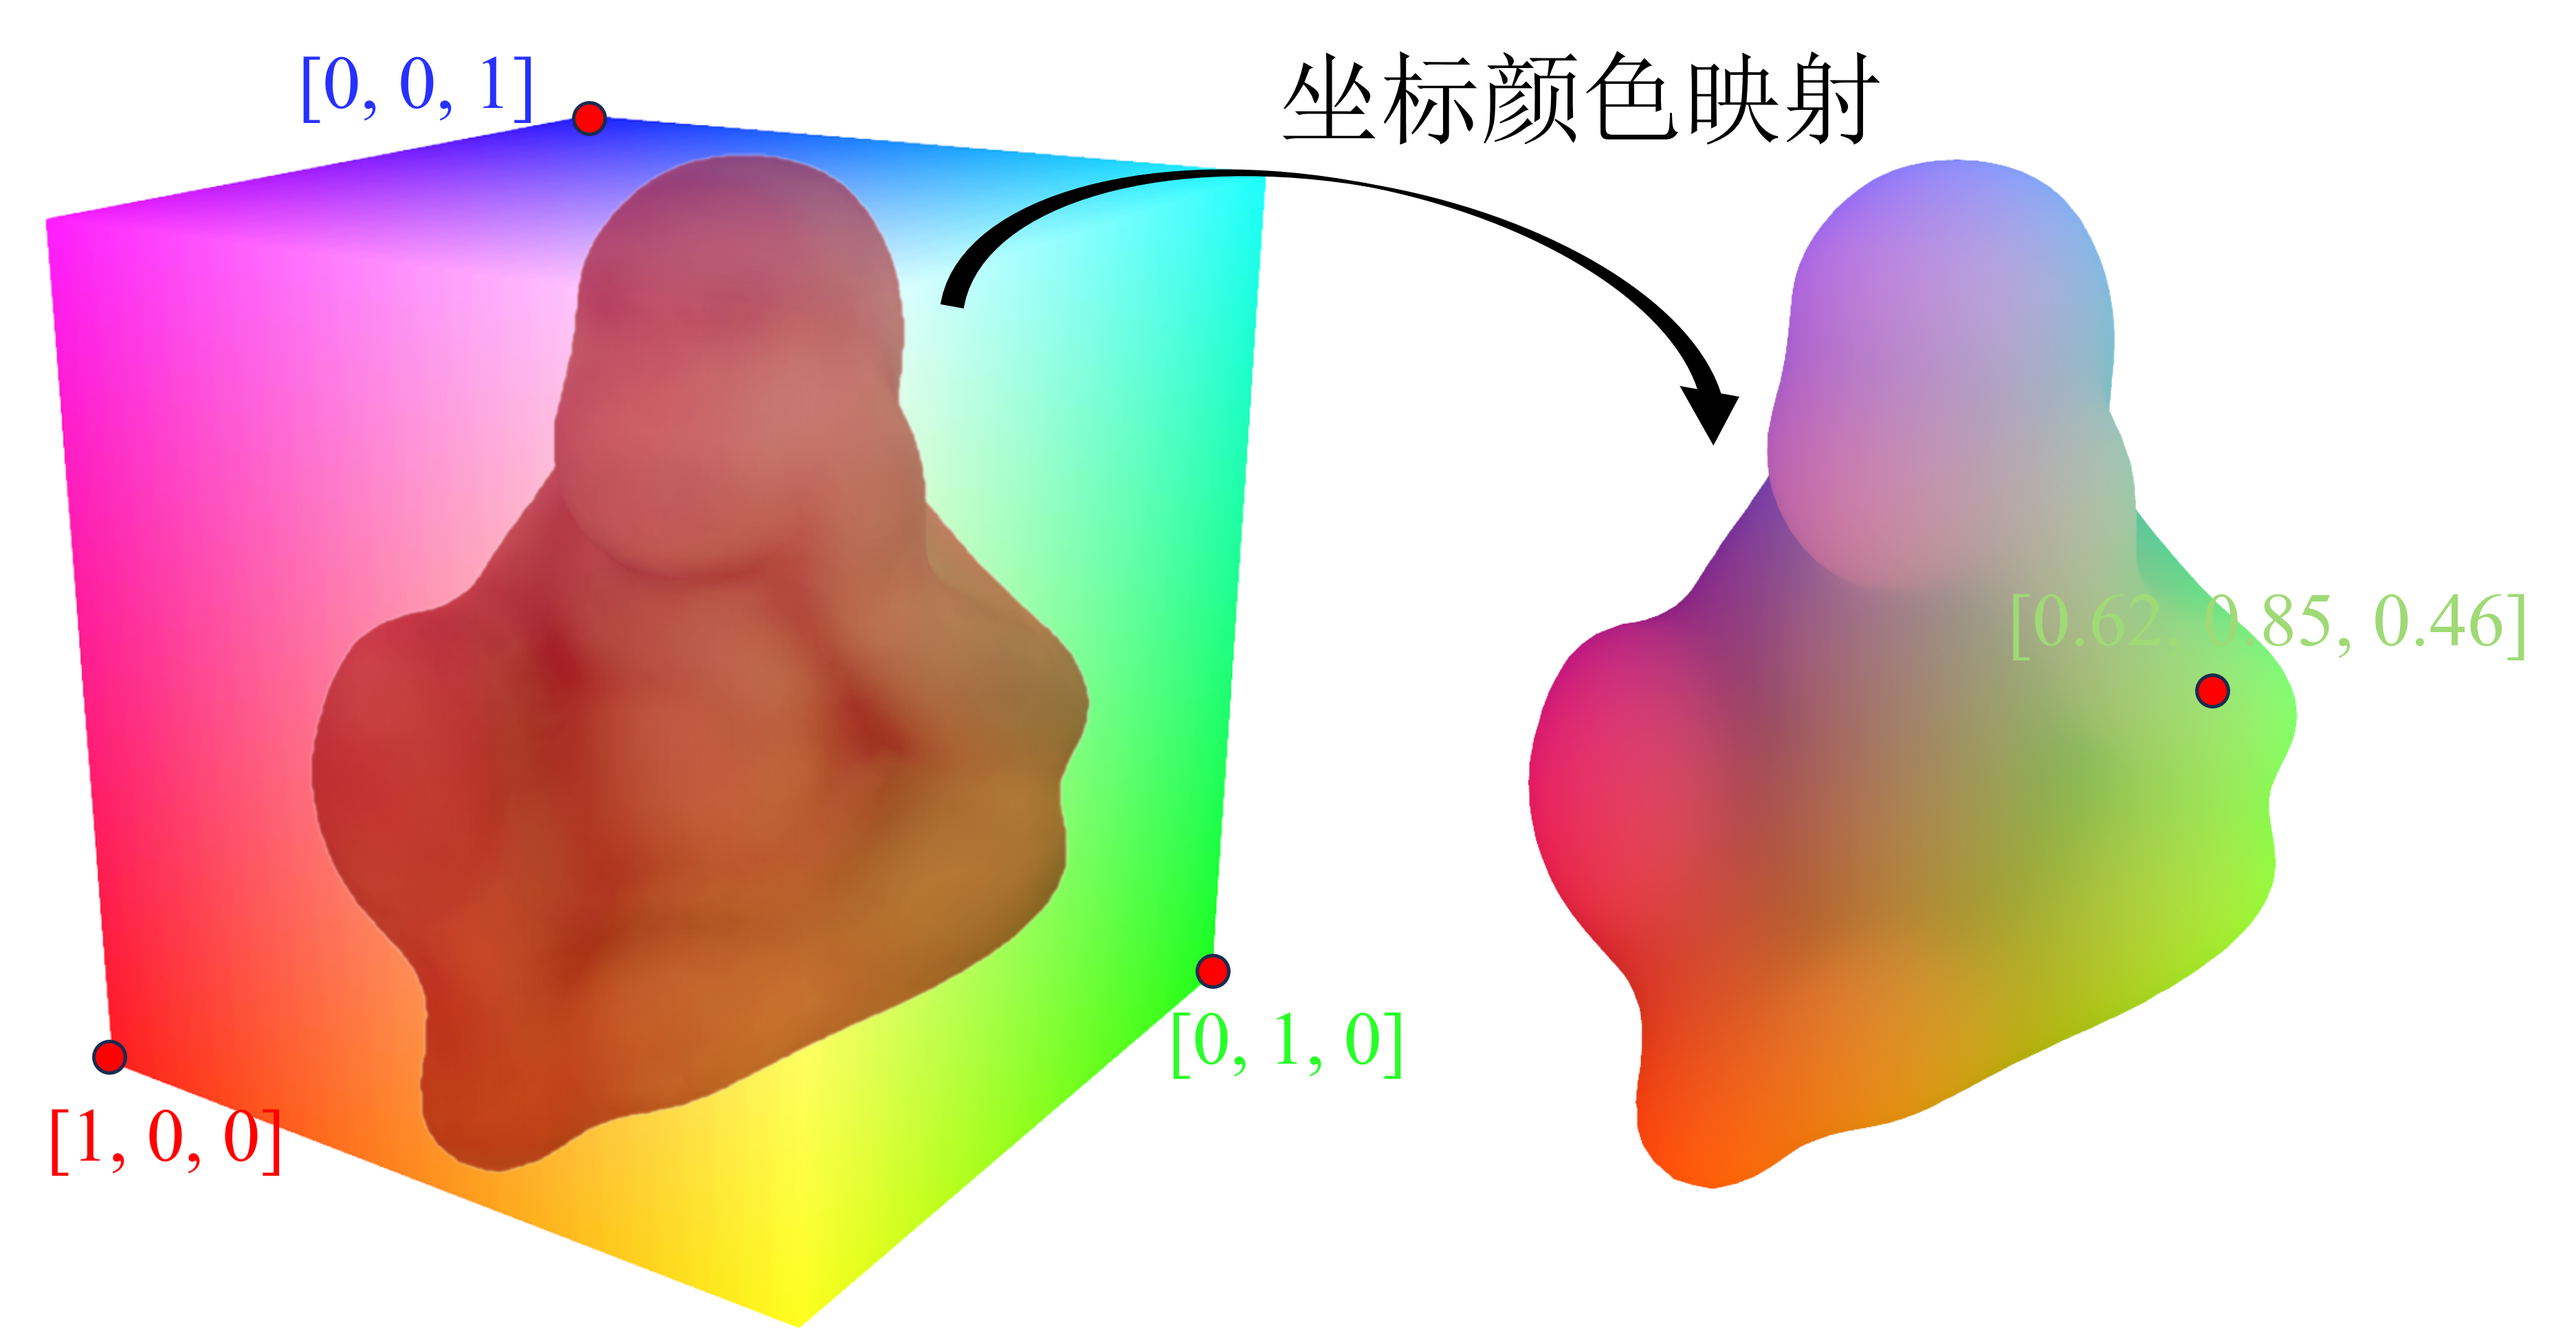
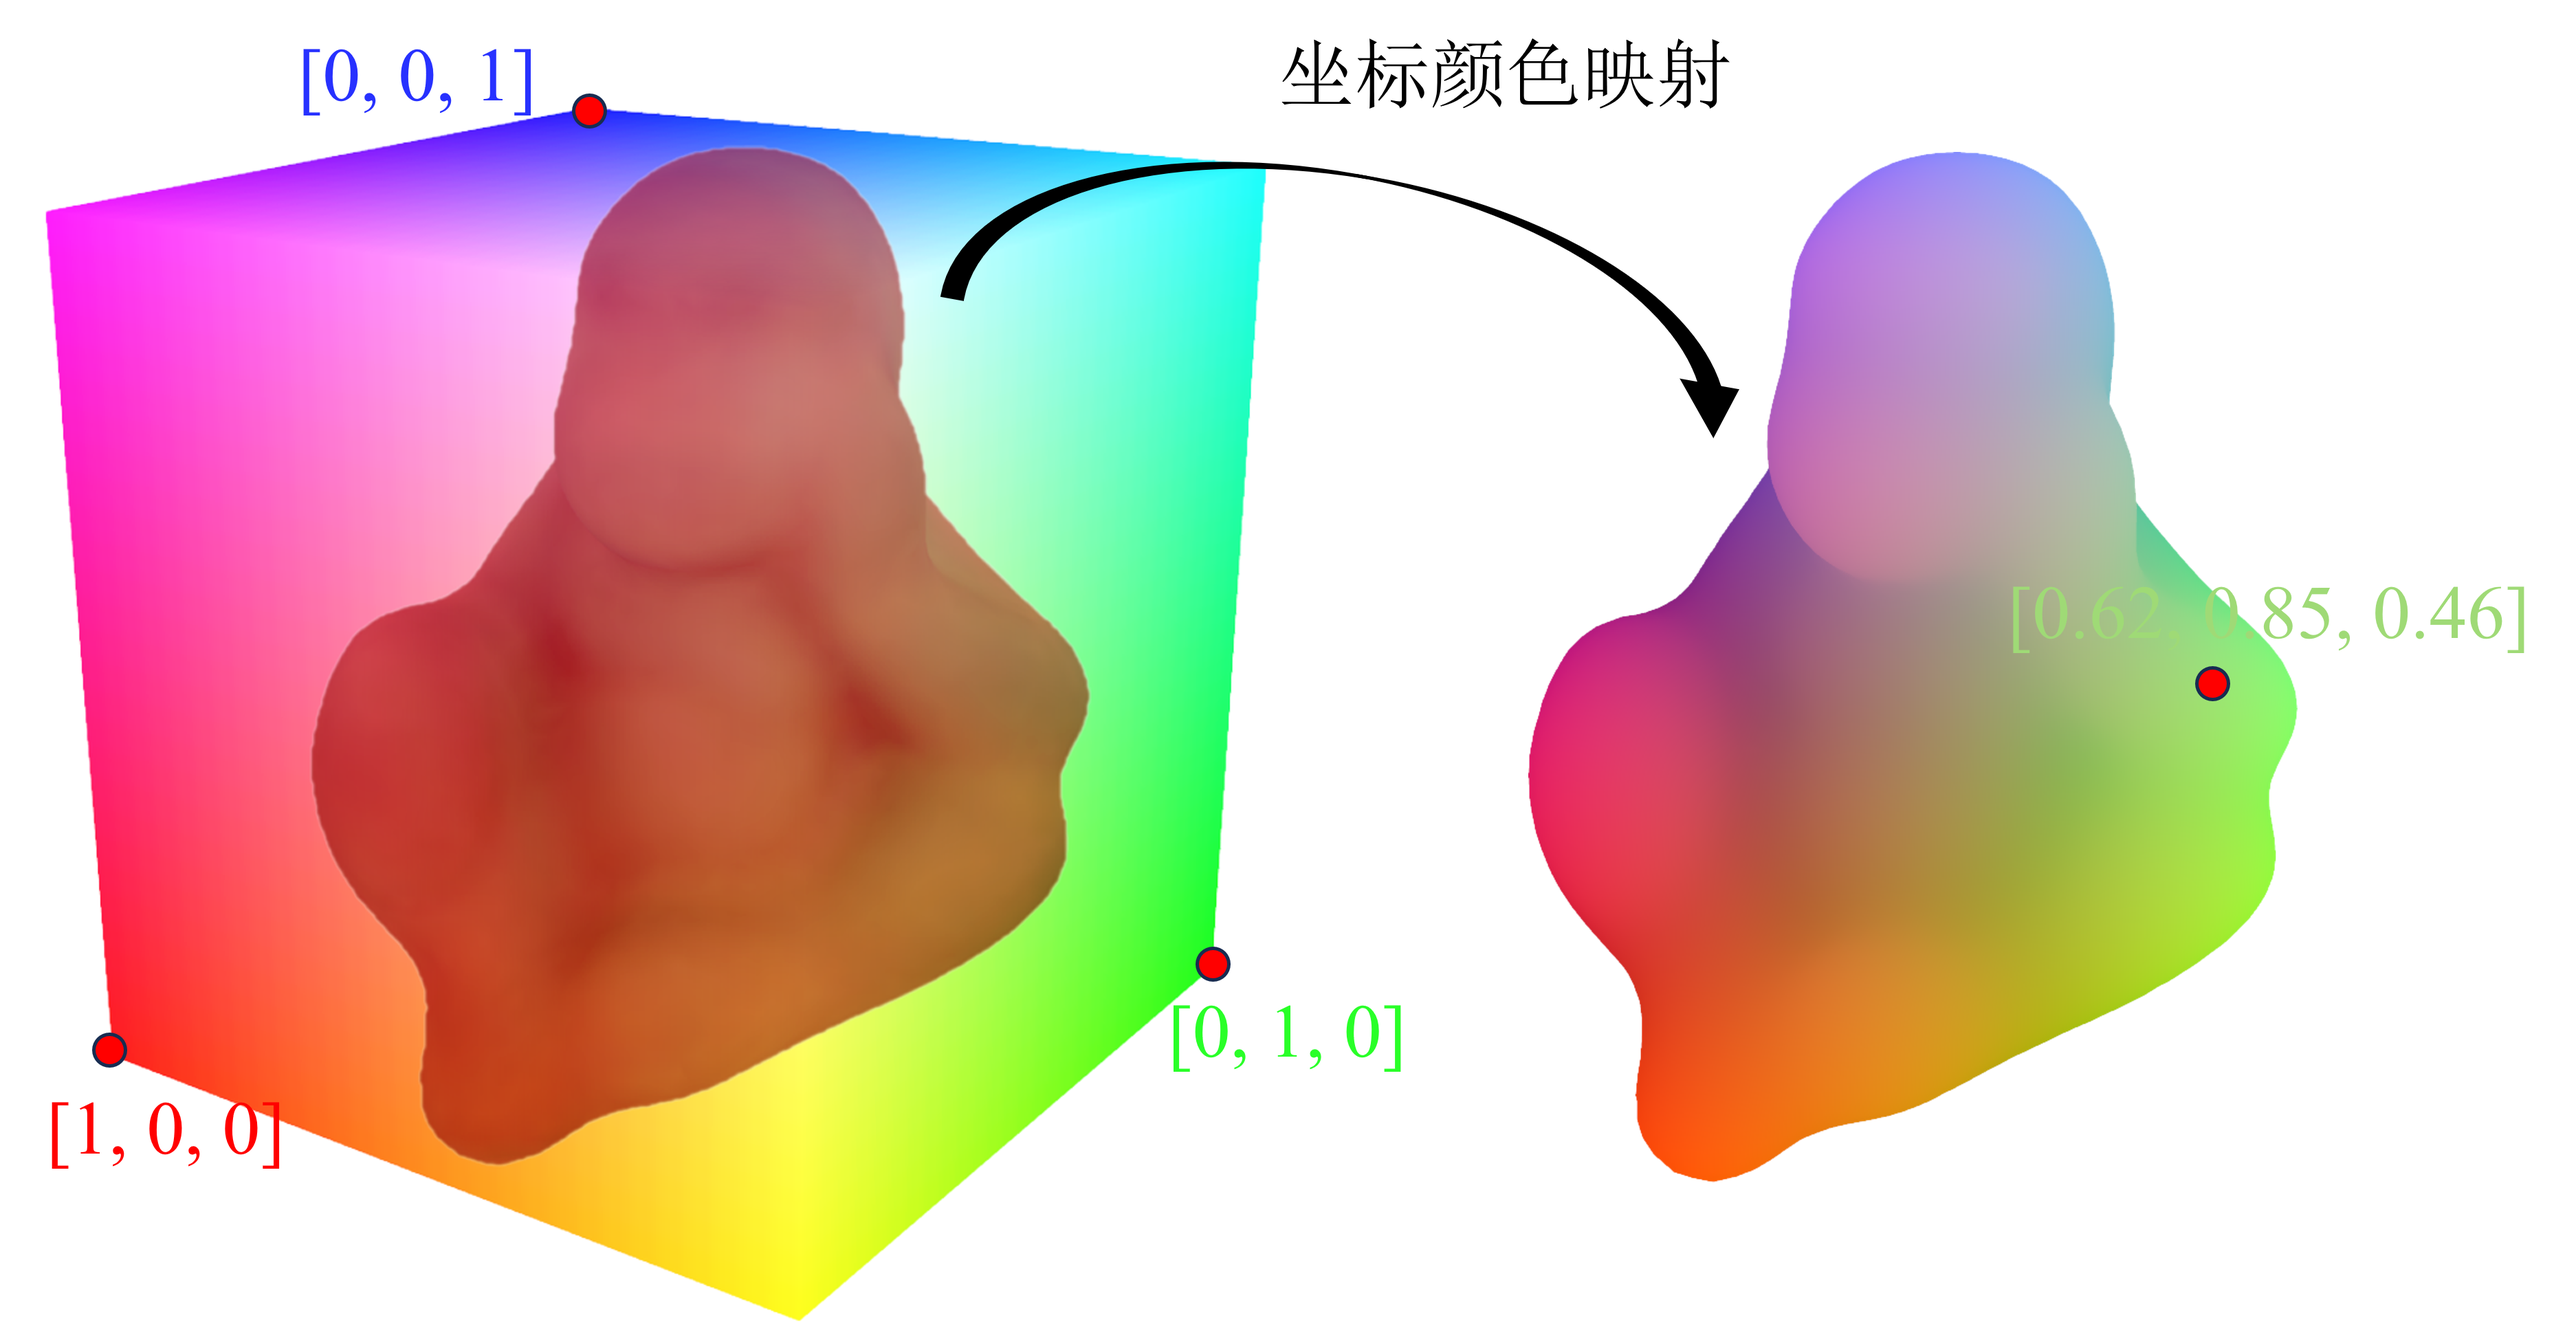
update hipose_encoding

diff --git a/body/graduate/2_2_hipose_encoding.tex b/body/graduate/2_2_hipose_encoding.tex
@@ -1,0 +1,70 @@
+\section{二进制表面编码}
+实例级的6D物体位姿估计依赖观测图像与物体CAD模型的对应关系来估计位姿，即需要估计出观测点云或像素所对应的物体坐标系坐标。不同的物体有大有小，为了方便网络学习，我们先对物体的尺寸进行归一化，让物体坐标系的长、宽、高的尺寸均归一化为1。为了将观测图像所对应的物体坐标系坐标方便神经网络学习，将笛卡尔空间物体坐标系坐标的三个分量X、Y、Z分别用彩色图像的R、G、B的三个通道表示。\autoref{fig:坐标颜色映射}以LM-O数据集中的物体ape为例，得到物体ape在物体坐标系中X、Y、Z的最小值和最大值，并归一化到0-1空间。图中用红点标注了若干个三维包围框映射后的坐标以及物体表面映射后的坐标。
+\begin{equation}
+    \left\{
+    \begin{aligned}
+        R &= \frac{X - X_{\min}}{X_{\max} - X_{\min}} \\
+        G &= \frac{Y - Y_{\min}}{Y_{\max} - Y_{\min}} \\
+        B &= \frac{Z - Z_{\min}}{Z_{\max} - Z_{\min}}
+    \end{aligned}
+    \right.
+\end{equation}
+
+其中 $(\cdot)_{\min}$ 表示该分量的最小值，$(\cdot)_{\max}$ 表示该分量的最大值。
+\begin{figure}[ht]
+    \centering
+    \includegraphics[width=0.75\linewidth]{hipose/坐标颜色映射.png}
+    \caption{坐标颜色映射}
+    \label{fig:坐标颜色映射}
+\end{figure}
+
+ZebraPose~\cite{su2022zebrapose}第一次提出使用离散的物体表面编码来替代物体表面坐标的表示方式。这种表面编码为每个顶点分配一个唯一的二进制编码，形成顶点坐标与二进制编码的一一映射。其构建流程如下。
+
+首先，使用聚类算法迭代地将物体表面网格划分为两个部分，并为每个组分配一个比特，如\autoref{fig:聚类过程}所示。聚类步骤1将整个物体表面划分为 \ding{172} 和\ding{173} 两个部分。聚类步骤2将\ding{172}表面划分为\ding{172} 和\ding{173} 两个部分并把\ding{173}划分为\ding{174}和\ding{175}两个部分。聚类步骤3将\ding{172}划分为 \ding{172} 和\ding{173} 两个部分，以此类推。
+
+\begin{figure}[ht]
+    \centering
+    \includegraphics[width=0.75\linewidth]{hipose/聚类过程.png}
+    \caption{聚类过程}
+    \label{fig:聚类过程}
+\end{figure}
+
+即在第 $j, j \in \{1, \ldots, d\}$ 次表面划分迭代后，我们有 $2^{j}$ 个独立的子表面。假设一个表面包含 $L$ 个顶点，使用平衡 k-means 进行划分，结果是两个子表面分别包含 $\lfloor L/2 \rfloor$ 和 $L-\lfloor L/2 \rfloor$ 个顶点。\autoref{fig:聚类结果}展示了聚类步骤2和聚类步骤3将物体表面进行划分的结果。
+
+\begin{figure}[ht]
+    \centering
+    \includegraphics[width=0.75\linewidth]{hipose/聚类结果.png}
+    \caption{聚类结果}
+    \label{fig:聚类结果}
+\end{figure}
+
+我们将每次划分的两个子表面分别用0和1进行编码表示，将聚类步骤1到聚类步骤 $j$ 的编码组成一个二进制串作为该表面的划分编码。\autoref{fig:灰度图}展示了聚类过程中的编码，每一幅图中将二进制的$(0...0)_2$用黑色表示，$(1...1)_2$用白色表示。其他二进制数用相对应的灰度值进行可视化。
+
+\begin{figure}[ht]
+    \centering
+    \includegraphics[width=1.0\linewidth]{hipose/灰度图.png}
+    \caption{聚类过程的灰度图编码}
+    \label{fig:灰度图}
+\end{figure}
+
+这个过程创建了一个分层编码，所有前 $n$ 比特相等的顶点，属于对象网格表面直到第 $n$ 次划分的相同子表面。换句话说，一个二进制编码 $\mathbf{c}$ 描述了一个从粗到细的物体表面的划分过程。当二进制编码位数足够多时，二进制编码所对应的物体表面面积足够小，则可认为二进制编码与物体表面坐标形成一一对应关系。
+
+二进制编码的每一位都可以都可以用一个掩码（mask）进行表示，聚类步骤 $n$ 的结果可用 $n$ 个掩码进行表示。如\autoref{fig:坐标编码映射}所示，利用 $n$ 个掩码的相同位置的 01 值得到该图像像素点所对应的二进制编码，通过查表可得到对应的物体坐标系坐标。相反地，物体坐标系坐标也能够通过查表获取对应的二进制编码，进而构造出$n$个掩码作为训练标签。
+
+\begin{figure}[ht]
+    \centering
+    \includegraphics[width=0.75\linewidth]{hipose/坐标编码映射.png}
+    \caption{坐标编码映射}
+    \label{fig:坐标编码映射}
+\end{figure}
+
+\par 让网络学习二进制编码可以保证得到的物体坐标系坐标一定位于物体表面。此外，对于一个 $d$ 位的二进制编码，网络仅需要学习 $d$ 个二进制值，而直接使用物体坐标系坐标需要网络在$\mathbb{R}^3$上进行学习。
+
+用物体坐标系坐标作为标签的方法用RGB图储存某张输入图片对应的物体坐标系坐标，二进制编码也能够使用RGB图进行存储。一般来说，对于单个物体，使用10位二进制编码已有足够高的精度，ZebraPose使用16位二进制编码。对于RGB图像的每个通道，都能够存储8位二进制编码，16位二进制编码能够只用红色和绿色两个通道就能够完成存储。如\autoref{fig:存储}所示，左侧为观测图像，右侧为转换为RGB图的二进制编码。
+
+\begin{figure}[ht]
+    \centering
+    \includegraphics[width=0.75\linewidth]{hipose/二进制编码存储.png}
+    \caption{图像与对应的RGB存储图}
+    \label{fig:存储}
+\end{figure}

diff --git a/config/packages.tex b/config/packages.tex
@@ -37,8 +37,10 @@
 \usepackage{lipsum}
 \usepackage{zhlipsum}
 \usepackage{overpic}  % 图片上加文字
-\usepackage{cleveref}  % 引用 \cref
 \usepackage{multicol}            % 合并多列
 \usepackage{multirow}            % 合并多行
 \usepackage{makecell}            % 三线表-竖线
 \usepackage{booktabs}            % 三线表-短细横线
+\usepackage{amsmath}
+\usepackage{cleveref}  % 引用 \cref
+\usepackage{pifont}  % circled，带圈数字

diff --git a/body/graduate/2_hipose.tex b/body/graduate/2_hipose.tex
@@ -1,3 +1,3 @@
 \chapter{基于表面编码和对应关系剪枝的RGB-D物体位姿估计方法}
-\inputbody{2_hipose_introduction.tex}
-\inputbody{2_hipose_encoding.tex}
+\inputbody{2_1_hipose_introduction.tex}
+\inputbody{2_2_hipose_encoding.tex}
